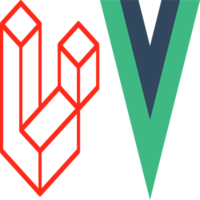
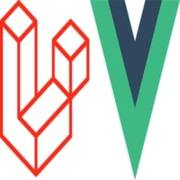
Resize image About

diff --git a/css/styles.css b/css/styles.css
@@ -14195,16 +14195,6 @@ span.linenos.special {
 | The full license is in the file LICENSE, distributed with this software.
 |----------------------------------------------------------------------------*/
 
-body {
-    font-size: 14px;
-    font-weight: 400;
-    letter-spacing: 0;
-    line-height: 1.28581;
-    text-transform: none;
-    color: #182026;
-    font-family: -apple-system, "BlinkMacSystemFont", "Segoe UI", "Roboto", "Oxygen", "Ubuntu", "Cantarell", "Open Sans", "Helvetica Neue", "Icons16", sans-serif;
-}
-
 p {
     margin-bottom: 10px;
     margin-top: 0;
